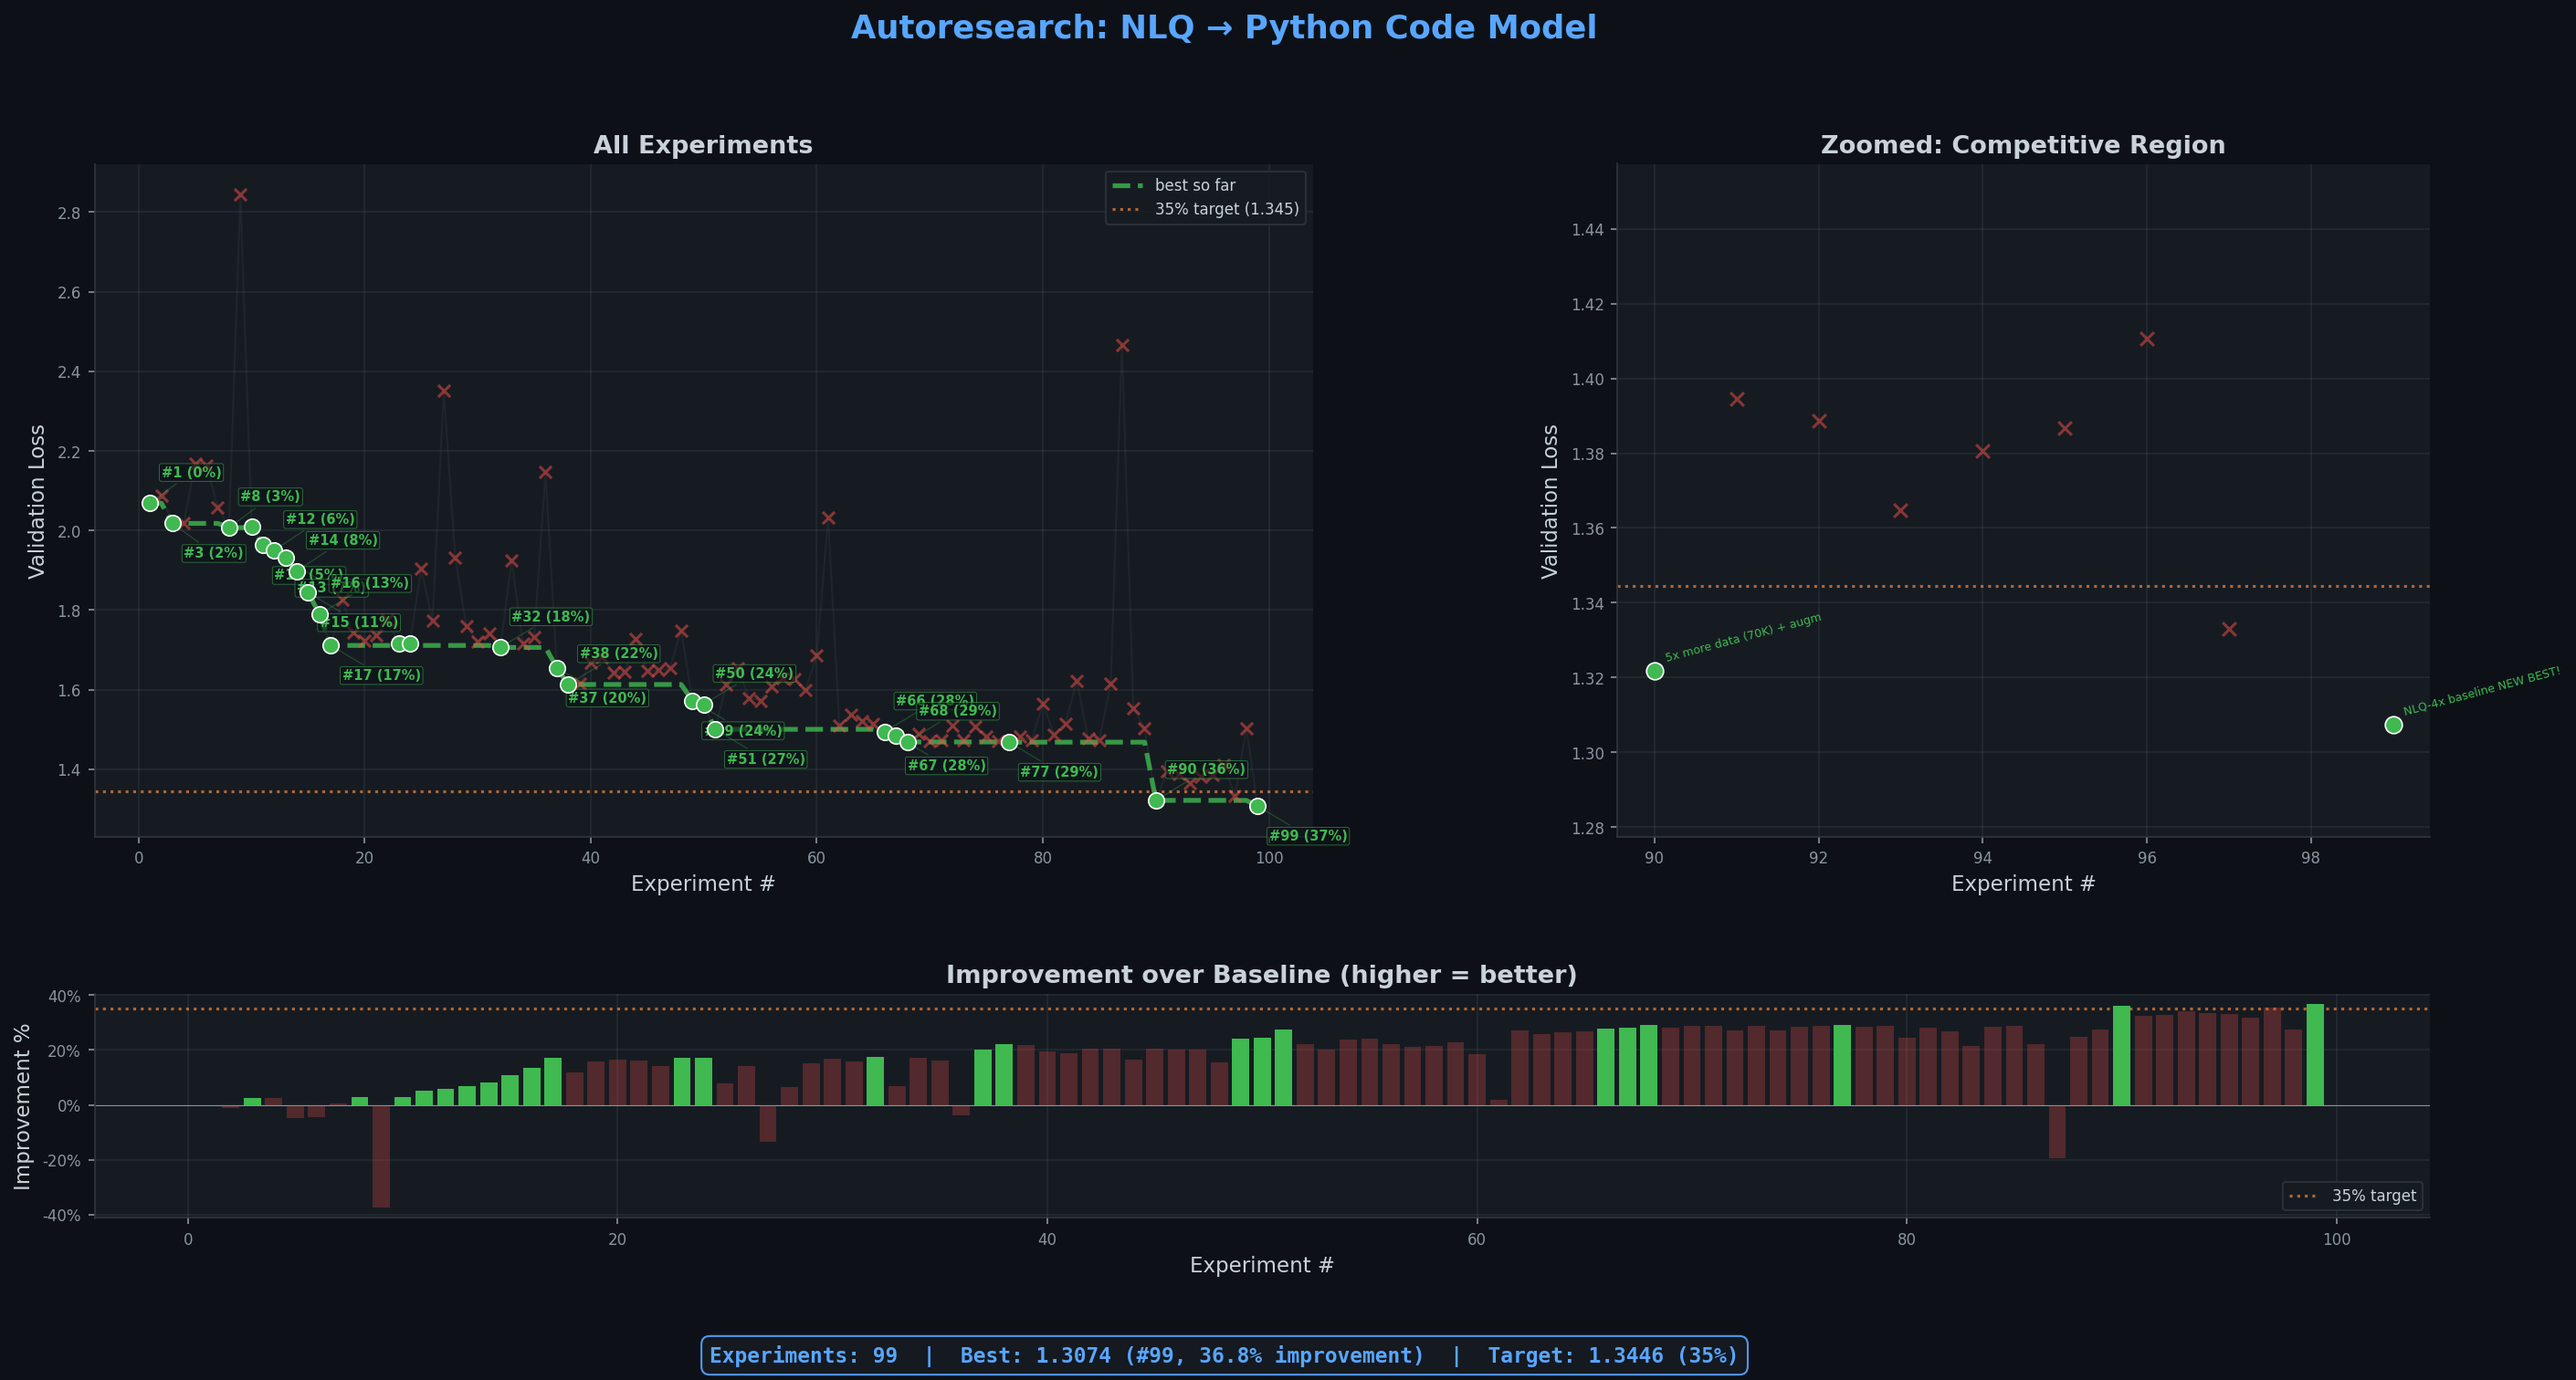
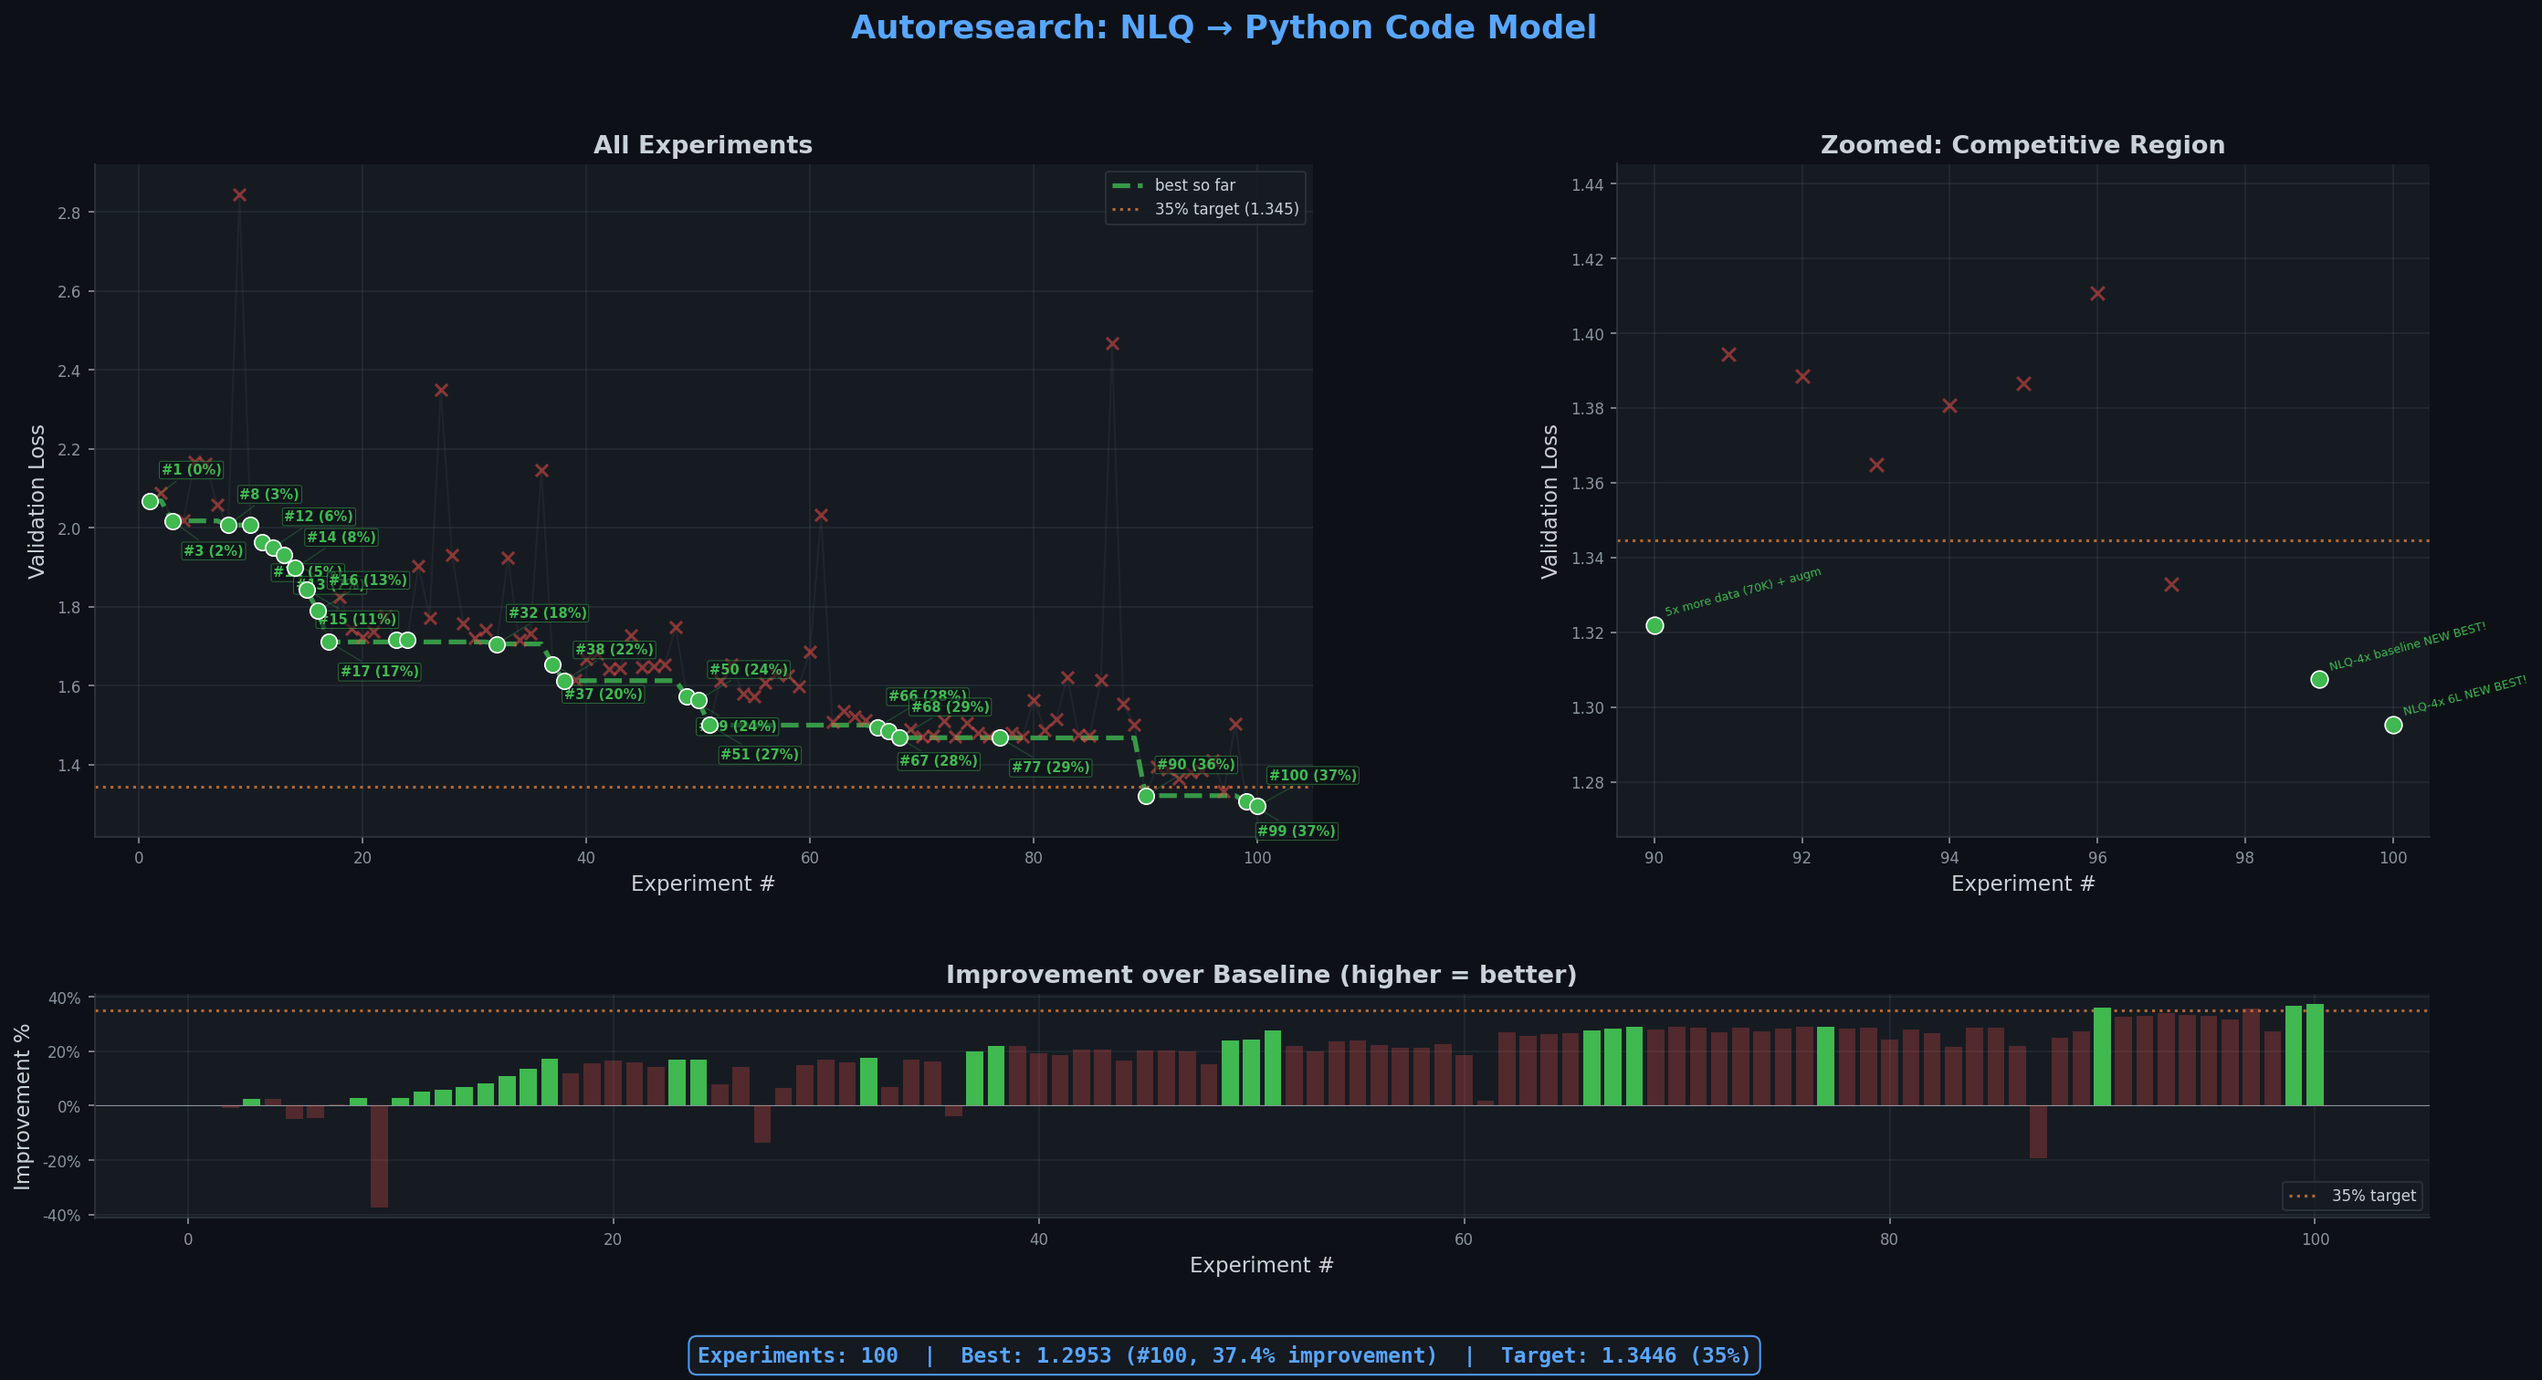
exp 100: NLQ-4x 6L NEW BEST! (val=1.2953, 37.4%)

diff --git a/train_mlx.py b/train_mlx.py
@@ -36,7 +36,7 @@ TOKENIZER_DIR = os.path.join(CACHE_DIR, "tokenizer")
 # Model
 VOCAB_SIZE = 2048
 MAX_SEQ_LEN = 512
-DEPTH = 5
+DEPTH = 6
 N_EMBD = 320
 HEAD_DIM = 64
 N_HEAD = N_EMBD // HEAD_DIM  # 5
